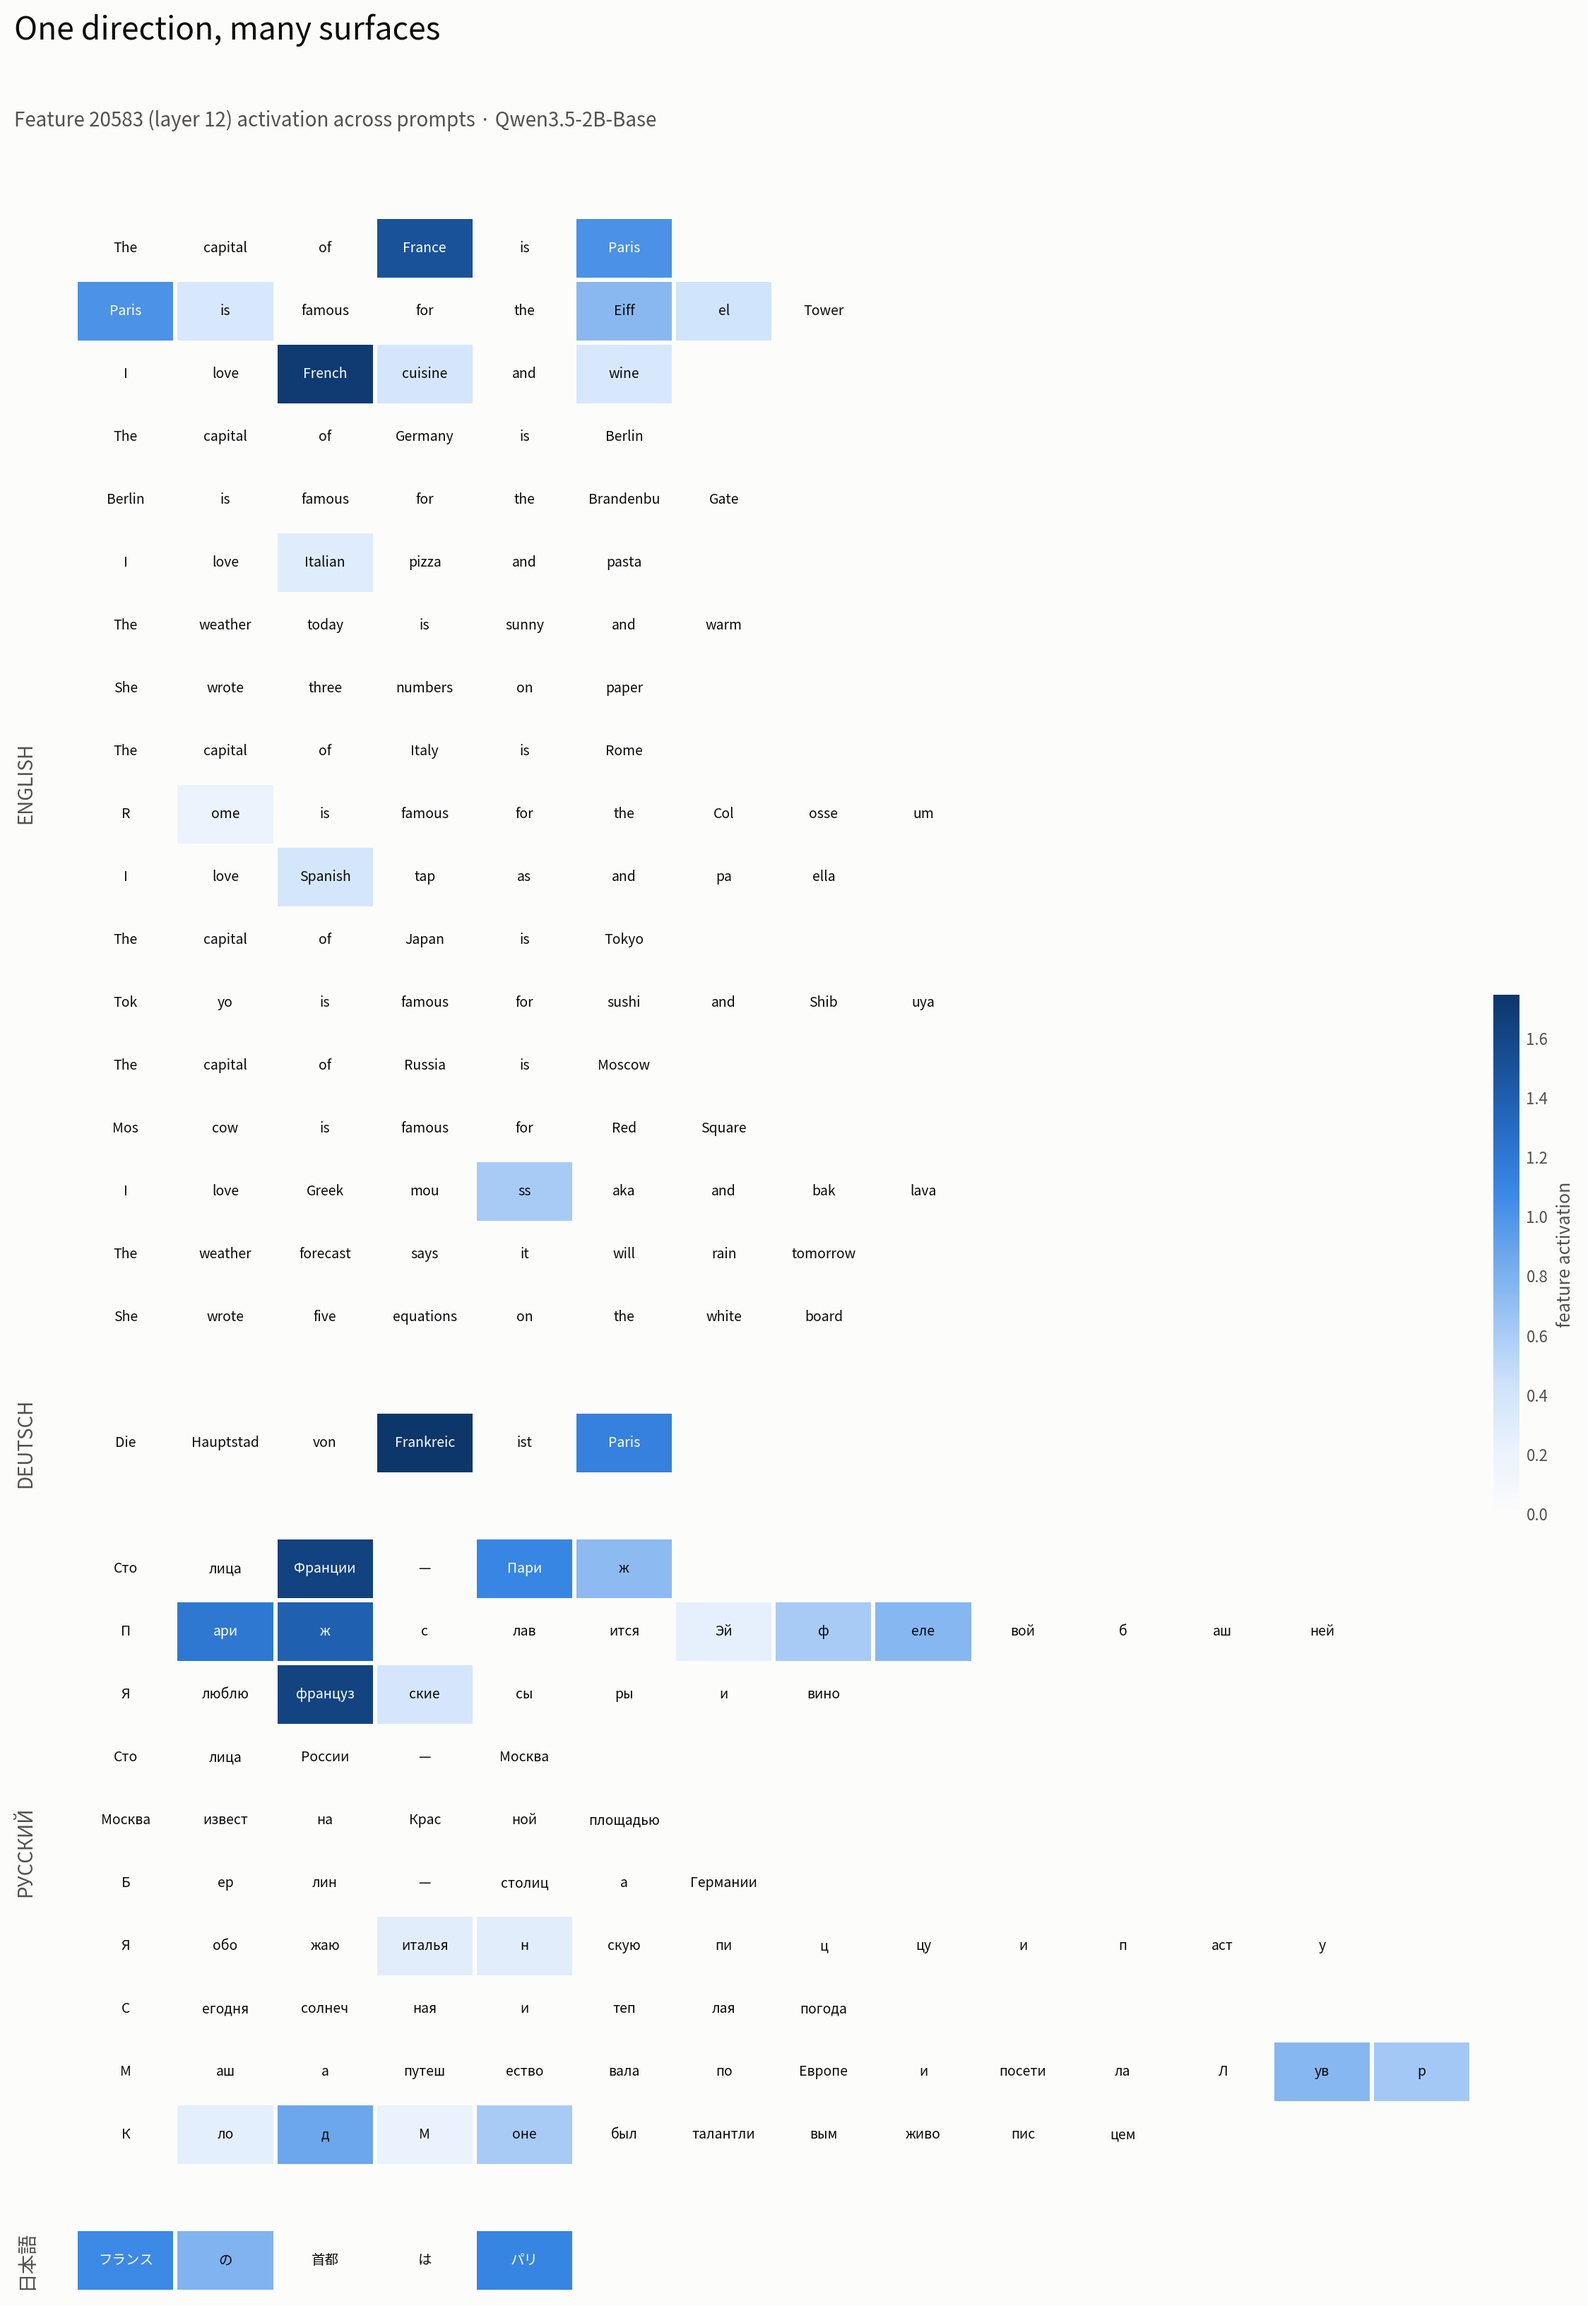
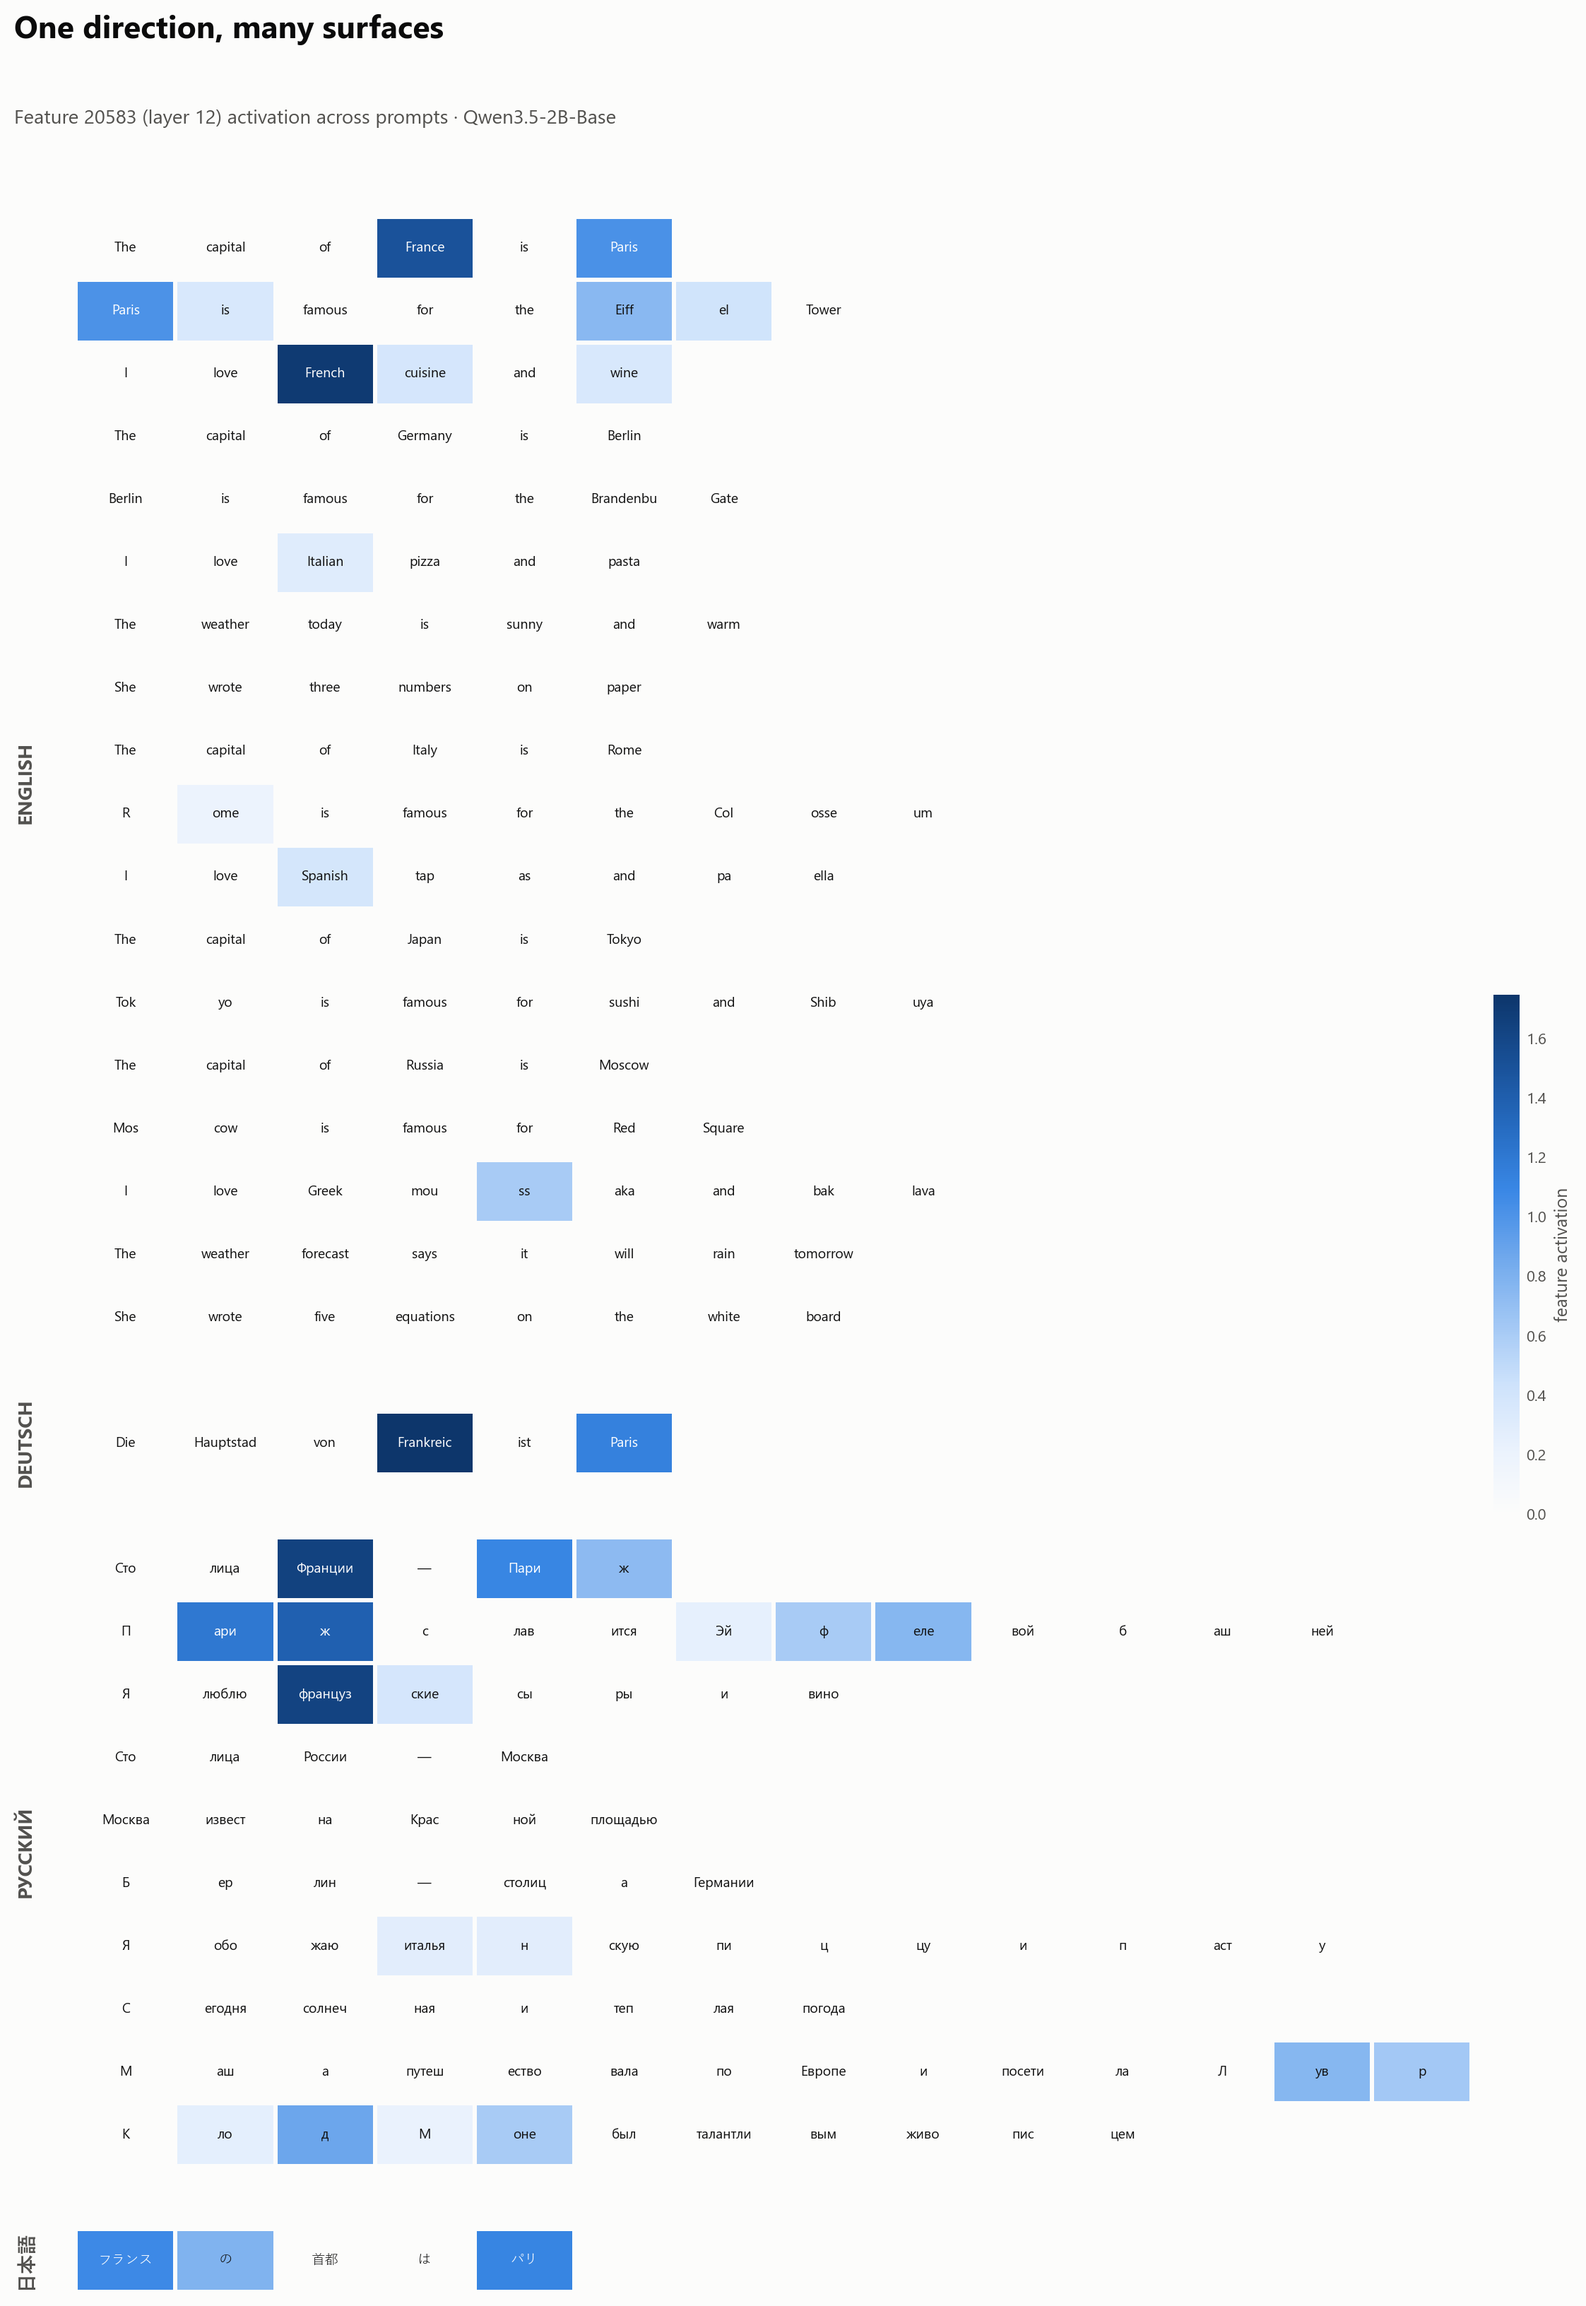
heatmap: fix cell text contrast in dark mode
Text colour now contrasts the cell itself (dark ink on light/bright cells, white
on dark), instead of following the theme ink which left white-on-bright-blue
blending in the dark figure.

diff --git a/scripts/heatmap_style.py b/scripts/heatmap_style.py
@@ -69,7 +69,9 @@ def _cmap(mode):
 def _text_color(rgba, tok):
     r, g, b = rgba[:3]
     lum = 0.2126 * r + 0.7152 * g + 0.0722 * b
-    return tok["ink"] if lum > 0.6 else "#ffffff"
+    # Contrast against the cell itself, not the theme: dark ink on light/bright
+    # cells, white on dark cells. Fixes white-on-bright-blue blending in dark mode.
+    return "#111111" if lum > 0.6 else "#ffffff"
 
 
 def render_heatmap(rows, out_path, mode="light",
